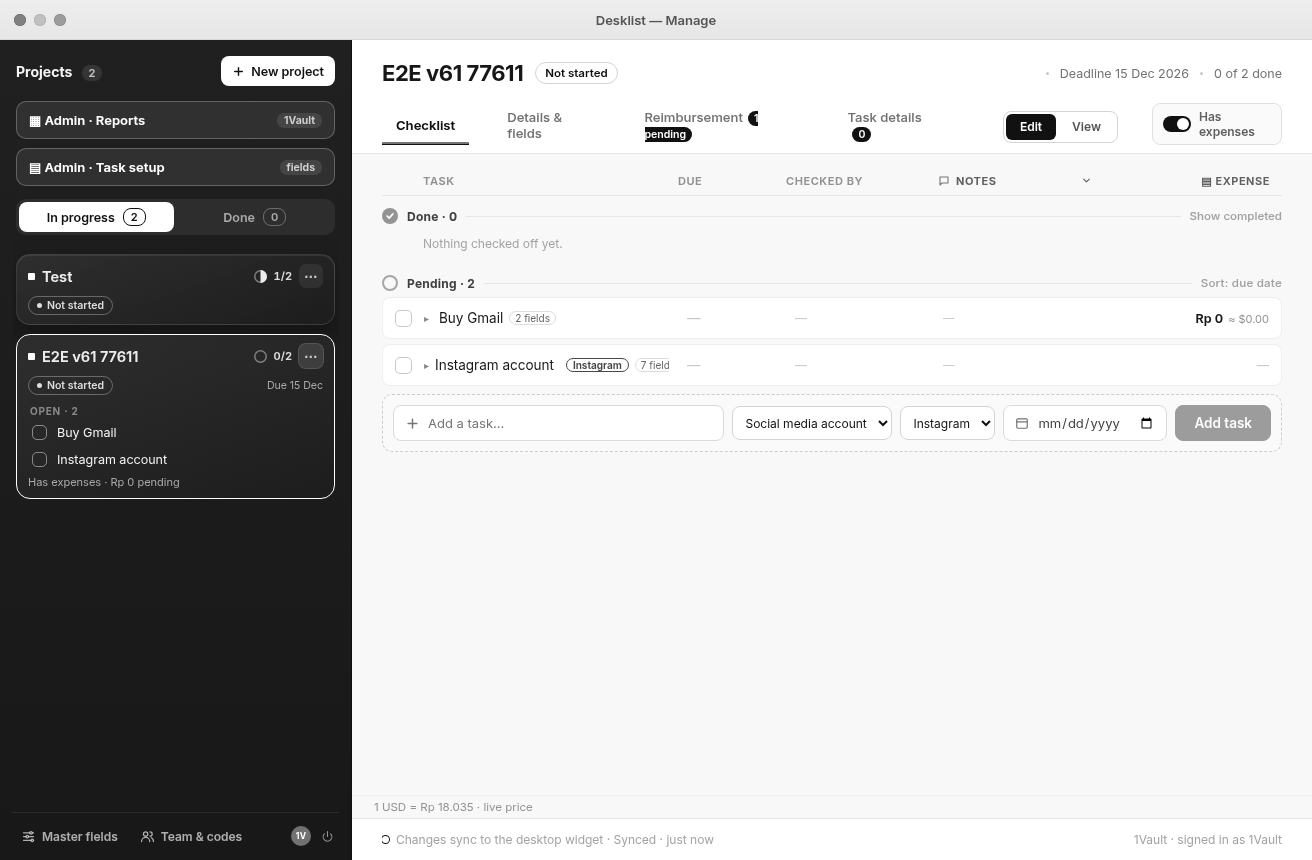
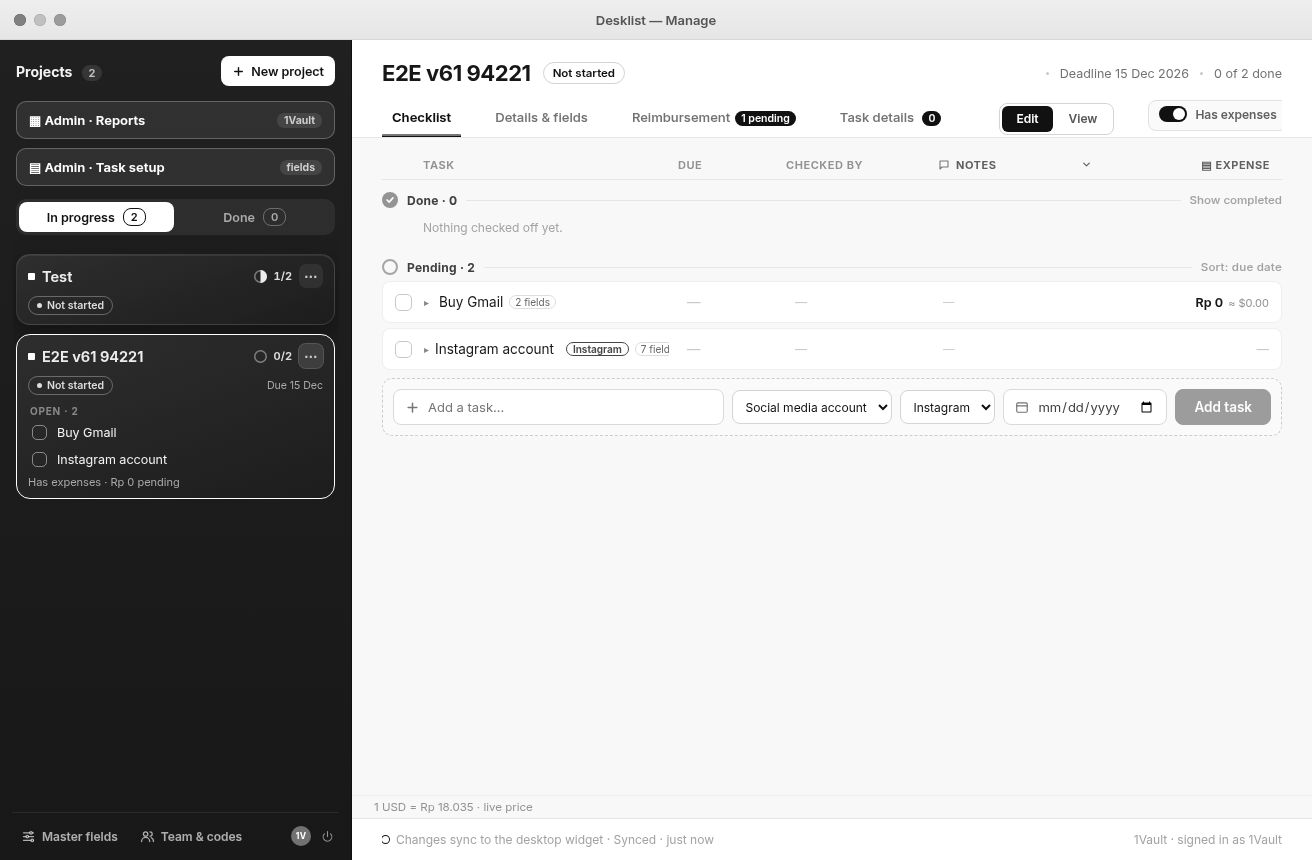
0.6.1: widget layout polish, e2e

diff --git a/app/src/renderer/src/styles/v61.css b/app/src/renderer/src/styles/v61.css
@@ -63,3 +63,13 @@
 .stabs{flex-wrap:nowrap;overflow:hidden}
 .stabs .st{padding:9px 10px 10px}
 .stabs .exptgl{flex:none}
+.widget .rail{width:214px!important;min-width:214px!important}
+.widget .ptabs{margin:4px 8px 8px!important;gap:3px}
+.widget .ptabs button{height:28px;padding:0 4px!important;font-size:11.5px!important;gap:5px}
+.widget .ptabs button em{padding:0 5px!important;font-size:10px!important;min-width:14px}
+.widget .w-top .switch{min-width:0;flex:1}
+.wadd input:not([type=date]){min-width:90px;flex:1}
+.wadd .wtype{max-width:78px;flex:none}
+.wadd .wcal{flex:none}
+.widget .w-top .gp{display:none}
+.wadd .wcal input{width:20px!important;min-width:0!important;color:transparent}.wadd .wcal input:focus,.wadd .wcal input:valid:not(:placeholder-shown){width:96px!important;color:inherit}
